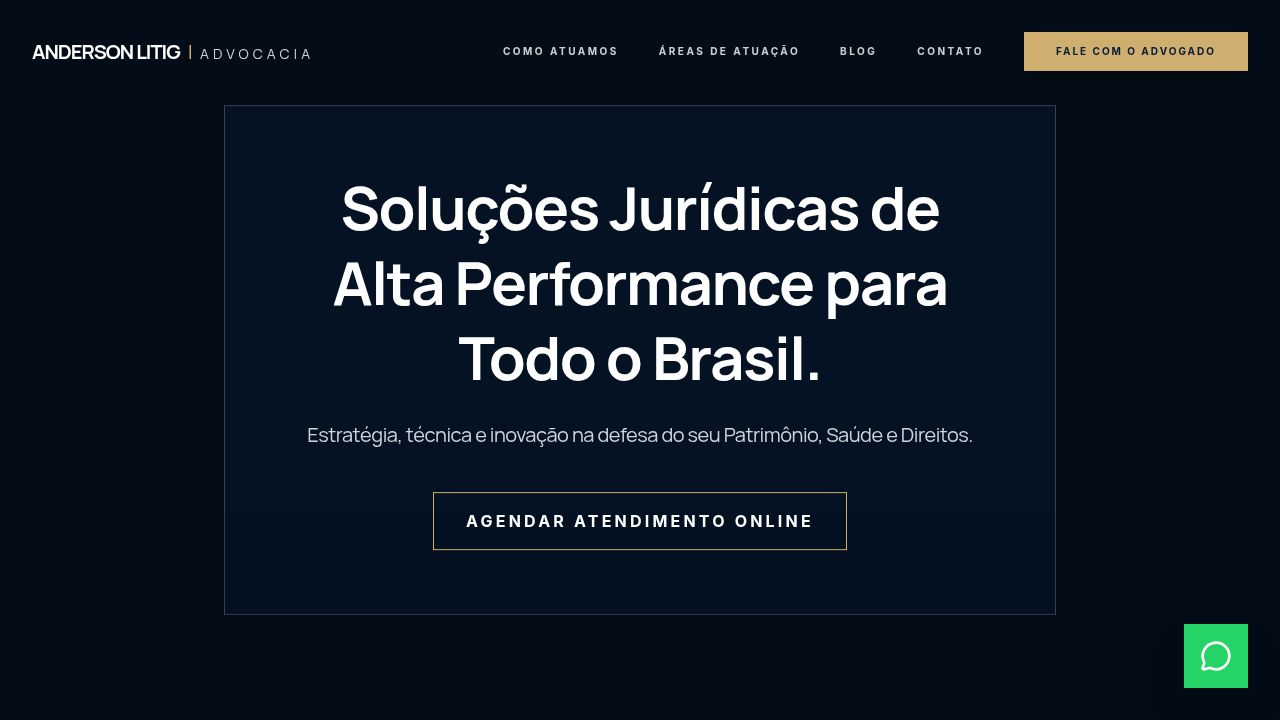
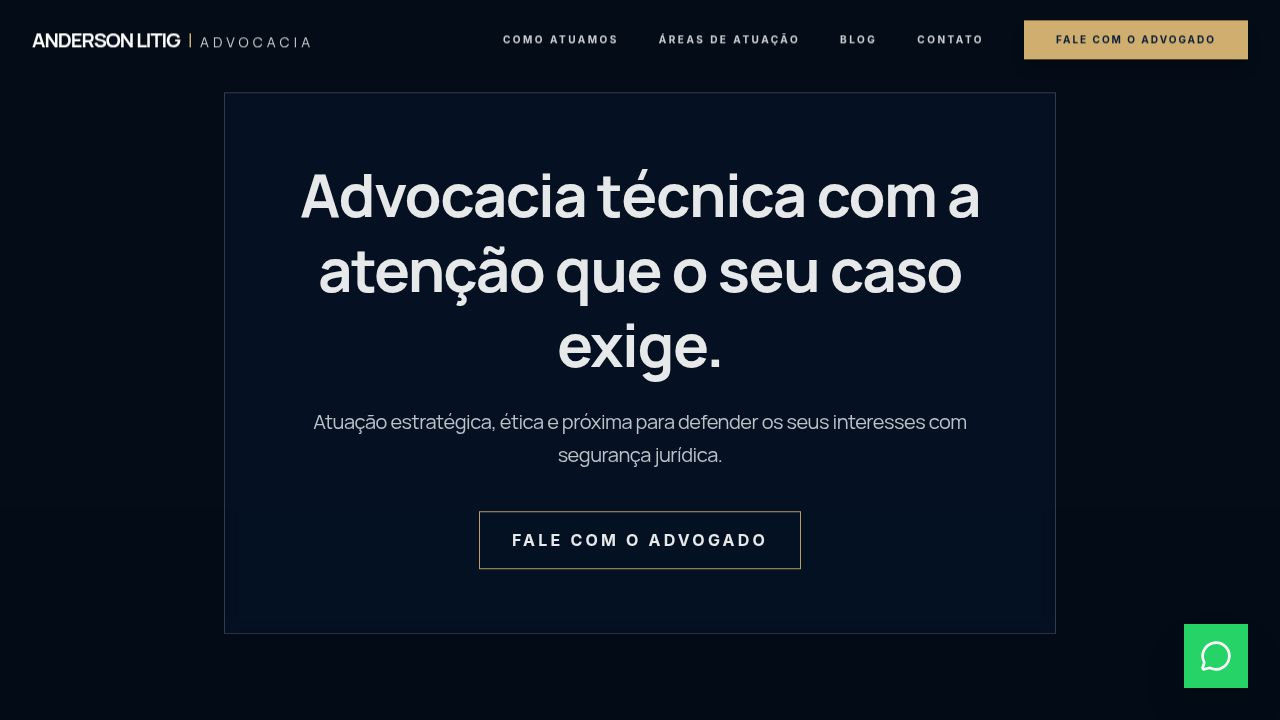
Update hero section with new headline and subtitle text
Modify Hero component in client/src/components/sections/Hero.tsx to update the headline and subtitle copy.

Replit-Commit-Author: Agent
Replit-Commit-Session-Id: 23b49390-30ea-4093-8b5a-6eb2e8ed9dd5
Replit-Commit-Checkpoint-Type: full_checkpoint
Replit-Commit-Event-Id: 2c7cfbed-9dcf-43f2-9296-615b0730d1c7
Replit-Commit-Screenshot-Url: https://storage.googleapis.com/screenshot-production-us-central1/2fdf9d41-8b5a-4c76-85fa-762b9afee910/23b49390-30ea-4093-8b5a-6eb2e8ed9dd5/WL4uWGl
Replit-Helium-Checkpoint-Created: true

diff --git a/client/src/components/sections/Hero.tsx b/client/src/components/sections/Hero.tsx
@@ -35,10 +35,10 @@ export default function Hero() {
           className="border border-white/20 bg-[#091D39]/40 backdrop-blur-sm p-8 md:p-16"
         >
           <h1 className="text-4xl md:text-6xl font-bold text-white leading-tight font-heading mb-6 tracking-tight">
-            Soluções Jurídicas de Alta Performance para Todo o Brasil.
+            Advocacia técnica com a atenção que o seu caso exige.
           </h1>
           <h2 className="text-lg md:text-xl text-gray-300 font-light mb-10 max-w-2xl mx-auto leading-relaxed">
-            Estratégia, técnica e inovação na defesa do seu Patrimônio, Saúde e Direitos.
+            Atuação estratégica, ética e próxima para defender os seus interesses com segurança jurídica.
           </h2>
           
           <motion.a
